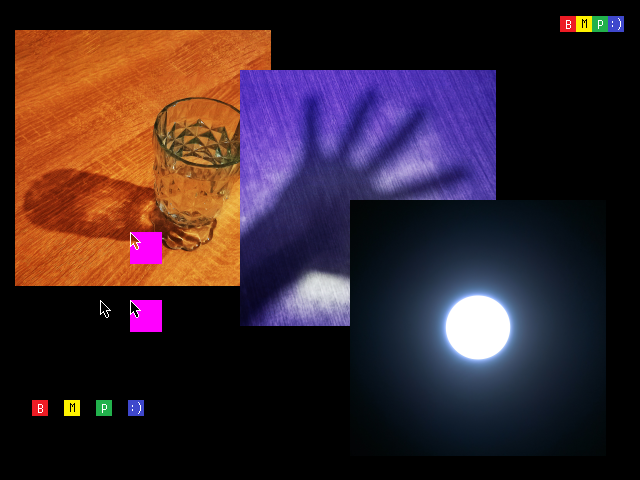
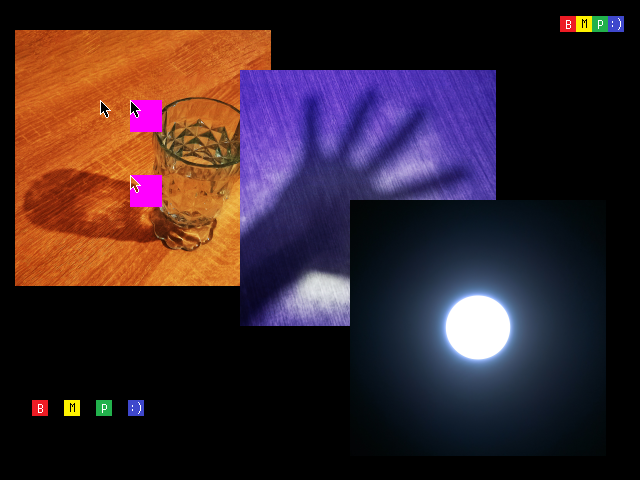
Update docs

diff --git a/docs/bmp-plot-resource.md b/docs/bmp-plot-resource.md
@@ -57,9 +57,9 @@ bmp_plot_resource(bmp_resource_1, bmp_resource_5, 16 * 6, 400, 16, 16, 16 * 2);
 bmp_plot_resource(bmp_resource_1, bmp_resource_5, 16 * 8, 400, 16, 16, 16 * 3);
 
 // Plot images with a alpha-like properties
-bmp_plot_resource(bmp_resource_1, bmp_resource_6, 100, 300, -1, -1, 0, 0, true, 255, 0, 255);
-bmp_plot_resource(bmp_resource_1, bmp_resource_6, 130, 300, -1, -1, 0, 0);
-bmp_plot_resource(bmp_resource_1, bmp_resource_6, 130, 232, -1, -1, 0, 0, true, 0, 0, 0);
+bmp_plot_resource(bmp_resource_1, bmp_resource_6, 100, 100, -1, -1, 0, 0, true, 255, 0, 255);
+bmp_plot_resource(bmp_resource_1, bmp_resource_6, 130, 100, -1, -1, 0, 0);
+bmp_plot_resource(bmp_resource_1, bmp_resource_6, 130, 175, -1, -1, 0, 0, true, 0, 0, 0);
 
 // Spawn the image into the container
 bmp_resource_spawn(bmp_resource_1, bmp_container);
